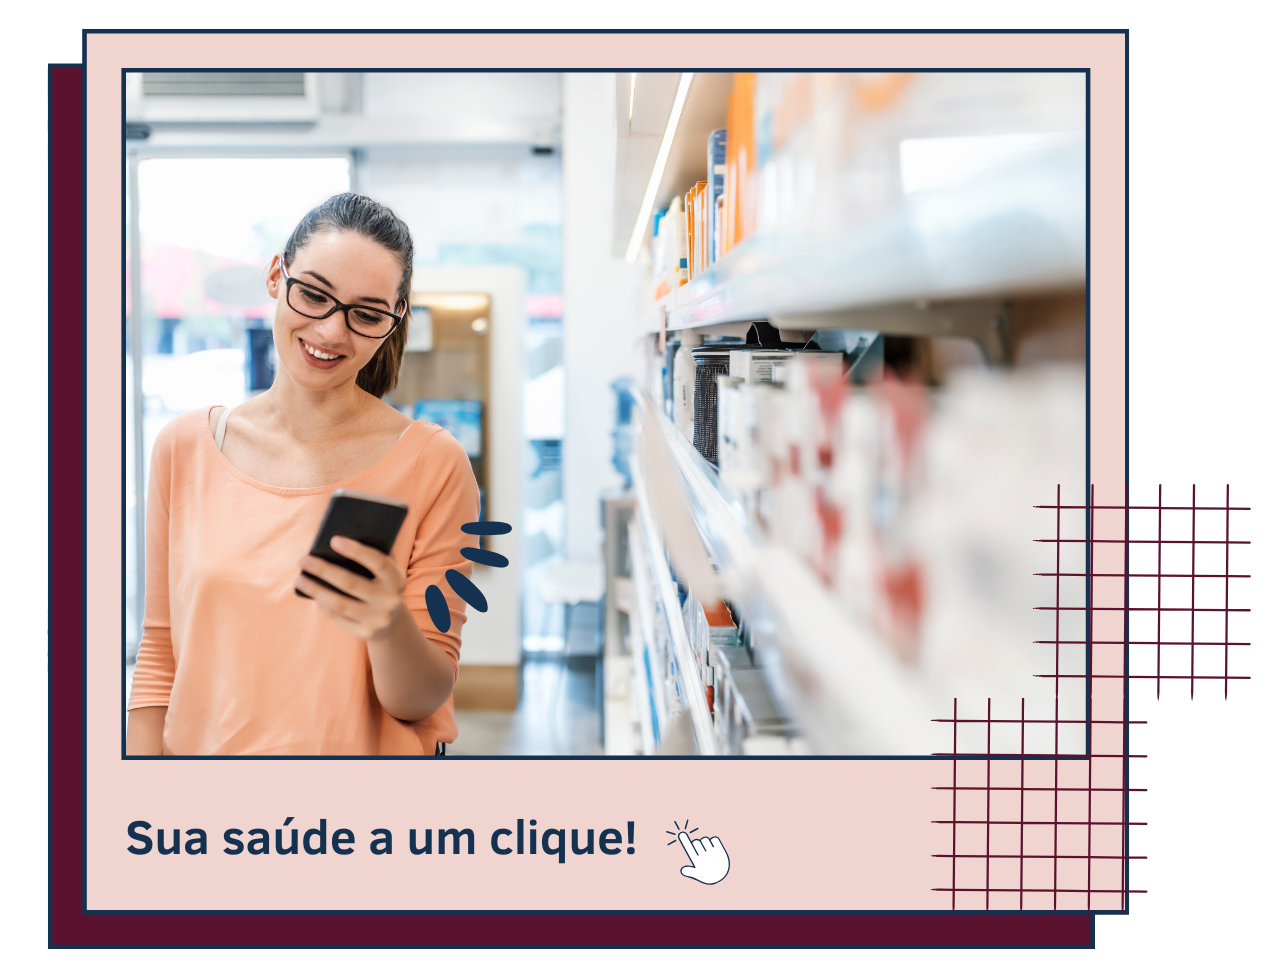
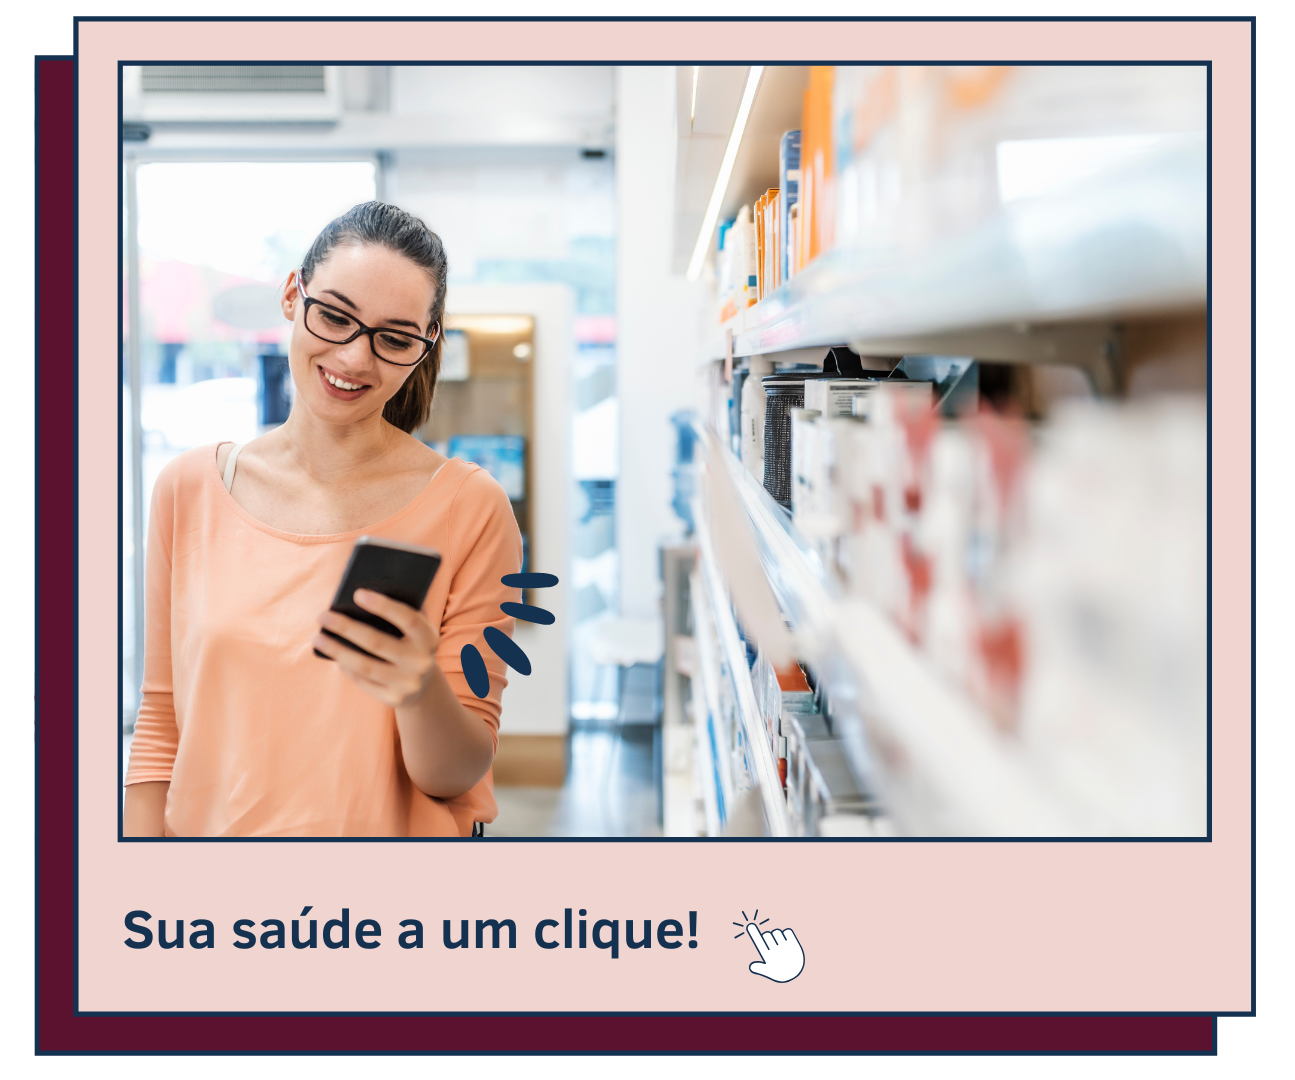
✨ feat: adiciona alert, ToastAlerta e isLoading nos formulários de Categoria

diff --git a/src/components/navbar/Navbar.tsx b/src/components/navbar/Navbar.tsx
@@ -1,30 +1,28 @@
 import { Link, NavLink } from "react-router-dom";
-import logo from "../../assets/logo.png"; //
+import logo from "../../assets/logo.png";
 
 export default function Navbar() {
     return (
         <header className="w-full bg-[#0d2a47] text-[#f1cdc5] shadow-md">
             <div className="container mx-auto px-8">
-                <div className="flex h-30 items-center">
-                    <div className="flex-1">
-                        <Link to="/" className="flex items-center gap-3">
-                            <img
-                                src={logo}
-                                alt="Logo ClickFarma"
-                                className="h-25 object-contain"
-                            />
-                        </Link>
-                    </div>
+                <div className="flex h-32 items-center gap-10">
+                    <Link to="/" className="flex items-center gap-3">
+                        <img
+                            src={logo}
+                            alt="Logo ClickFarma"
+                            className="h-30 object-contain"
+                        />
+                    </Link>
 
-                    <nav className="flex-1 flex">
-                        <ul className="flex flex-1 justify-evenly items-center font-semibold text-lg">
+                    <nav>
+                        <ul className="flex items-center gap-15 font-bold text-lg">
                             <li>
                                 <NavLink
                                     to="/"
                                     end
                                     className={({ isActive }) =>
-                                        `inline-block transform transition-transform duration-200 ease-out hover:scale-110 ${
-                                            isActive ? "text-[#d9b2a9] font-bold" : "text-[#f1cdc5]"
+                                        `inline-block transition-transform duration-200 hover:scale-110 ${
+                                            isActive ? "text-[#d9b2a9]" : "text-[#f1cdc5]"
                                         }`
                                     }
                                 >
@@ -36,8 +34,8 @@ export default function Navbar() {
                                 <NavLink
                                     to="/categorias/novo"
                                     className={({ isActive }) =>
-                                        `inline-block whitespace-nowrap transform transition-transform duration-200 ease-out hover:scale-110 ${
-                                            isActive ? "text-[#d9b2a9] underline" : "text-[#f1cdc5]"
+                                        `inline-block transition-transform duration-200 hover:scale-110 ${
+                                            isActive ? "text-[#d9b2a9]" : "text-[#f1cdc5]"
                                         }`
                                     }
                                 >
@@ -49,8 +47,8 @@ export default function Navbar() {
                                 <NavLink
                                     to="/sobre"
                                     className={({ isActive }) =>
-                                        `inline-block transform transition-transform duration-200 ease-out hover:scale-110 ${
-                                            isActive ? "text-[#d9b2a9] underline" : "text-[#f1cdc5]"
+                                        `inline-block transition-transform duration-200 hover:scale-110 ${
+                                            isActive ? "text-[#d9b2a9]" : "text-[#f1cdc5]"
                                         }`
                                     }
                                 >
@@ -62,8 +60,8 @@ export default function Navbar() {
                                 <NavLink
                                     to="/contato"
                                     className={({ isActive }) =>
-                                        `inline-block transform transition-transform duration-200 ease-out hover:scale-110 ${
-                                            isActive ? "text-[#d9b2a9] underline" : "text-[#f1cdc5]"
+                                        `inline-block transition-transform duration-200 hover:scale-110 ${
+                                            isActive ? "text-[#d9b2a9]" : "text-[#f1cdc5]"
                                         }`
                                     }
                                 >
@@ -72,9 +70,6 @@ export default function Navbar() {
                             </li>
                         </ul>
                     </nav>
-
-
-                    <div className="flex-1 flex justify-end"></div>
                 </div>
             </div>
         </header>

diff --git a/src/components/categoria/FormCategoria.tsx b/src/components/categoria/FormCategoria.tsx
@@ -2,9 +2,11 @@ import { useEffect, useState } from "react";
 import { useNavigate, useParams } from "react-router-dom";
 import {atualizarCategoria, buscarCategoriaPorId, criarCategoria} from "../../services/Services.ts";
 import type Categoria from "../../models/Categoria.ts";
-
+import {ToastAlerta} from "../../utils/ToastAlerta.ts";
+import SyncLoader from "react-spinners/SyncLoader";
 
 export default function FormCategoria() {
+    const [isLoading] = useState(false);
     const [categoria, setCategoria] = useState<Omit<Categoria, "id">>({
         nome: "",
         descricao: ""
@@ -22,25 +24,31 @@ export default function FormCategoria() {
     }, [id]);
 
     function handleChange(
-        e: React.ChangeEvent<HTMLInputElement | HTMLTextAreaElement>
+        event: React.ChangeEvent<HTMLInputElement | HTMLTextAreaElement>
     ) {
-        const { name, value } = e.target;
+        const { name, value } = event.target;
         setCategoria({
             ...categoria,
             [name]: value,
         });
     }
 
-    async function handleSubmit(e: React.FormEvent) {
-        e.preventDefault();
+    async function handleSubmit(event: React.FormEvent) {
+        event.preventDefault();
 
-        if (id) {
-            await atualizarCategoria(Number(id), { id: Number(id), ...categoria });
-        } else {
-            await criarCategoria(categoria);
+        try {
+            if (id) {
+                await atualizarCategoria(Number(id), { id: Number(id), ...categoria });
+                ToastAlerta("Categoria atualizada com sucesso!", "sucesso");
+            } else {
+                await criarCategoria(categoria);
+                ToastAlerta("Categoria cadastrada com sucesso!", "sucesso");
+            }
+
+            navigate("/categorias");
+        } catch (error) {
+            ToastAlerta("Erro ao salvar categoria.", "erro");
         }
-
-        navigate("/categorias");
     }
 
     return (
@@ -70,9 +78,23 @@ export default function FormCategoria() {
                     />
                     <button
                         type="submit"
-                        className="w-full px-4 py-3 bg-[#5a122e] text-white rounded-lg font-semibold hover:bg-[#7a1a40] transition-colors"
+                        disabled={isLoading}
+                        className={`w-full px-4 py-3 rounded-lg font-semibold transition-colors ${
+                            isLoading
+                                ? "bg-gray-400 text-white cursor-not-allowed"
+                                : "bg-[#5a122e] text-white hover:bg-[#7a1a40]"
+                        }`}
                     >
-                        Salvar
+                        {isLoading ? (
+                            <div className="flex justify-center">
+                                <SyncLoader color="#f1cdc5" size={10} />
+                            </div>
+                        ) : id ? (
+                            "Atualizar"
+                        ) : (
+                            "Cadastrar"
+                        )}
+
                     </button>
                 </form>
             </div>

diff --git a/src/components/categoria/DeletarCategoria.tsx b/src/components/categoria/DeletarCategoria.tsx
@@ -1,12 +1,12 @@
 import { useEffect, useState } from "react";
 import { useNavigate, useParams } from "react-router-dom";
 import type Categoria from "../../models/Categoria.ts";
-import {buscarCategoriaPorId, deletarCategoria} from "../../services/Services.ts";
+import { buscarCategoriaPorId, deletarCategoria } from "../../services/Services.ts";
+import { ToastAlerta } from "../../utils/ToastAlerta.ts";
 
-
-
-export default function DeleteCategoria() {
+export default function DeletarCategoria() {
     const [categoria, setCategoria] = useState<Categoria>();
+    const [isLoading, setIsLoading] = useState(false);
     const { id } = useParams();
     const navigate = useNavigate();
 
@@ -17,9 +17,20 @@ export default function DeleteCategoria() {
     }, [id]);
 
     async function handleDelete() {
-        if (id) {
-            await deletarCategoria(Number(id));
-            navigate("/categorias");
+        try {
+            if (id) {
+                setIsLoading(true);
+                await deletarCategoria(Number(id));
+                ToastAlerta("Categoria apagada com sucesso!", "sucesso");
+
+                setTimeout(() => {
+                    setIsLoading(false);
+                    navigate("/categorias");
+                }, 1500);
+            }
+        } catch (error) {
+            ToastAlerta("Erro ao deletar a categoria.", "erro");
+            setIsLoading(false);
         }
     }
 
@@ -37,13 +48,19 @@ export default function DeleteCategoria() {
                     <div className="flex gap-4 mt-6">
                         <button
                             onClick={handleDelete}
-                            className="px-5 py-2 bg-[#5a122e] text-white rounded-lg hover:bg-red-500 transition"
+                            disabled={isLoading}
+                            className={`px-5 py-2 rounded-lg text-white transition ${
+                                isLoading
+                                    ? "bg-gray-400 cursor-not-allowed"
+                                    : "bg-[#5a122e] hover:bg-red-500"
+                            }`}
                         >
-                            Confirmar
+                            {isLoading ? "Excluindo..." : "Confirmar"}
                         </button>
 
                         <button
                             onClick={() => navigate("/categorias")}
+                            disabled={isLoading}
                             className="px-5 py-2 bg-[#0d2a47] text-white rounded-lg hover:bg-[#12365f] transition"
                         >
                             Cancelar

diff --git a/src/components/categoria/ListaCategorias.tsx b/src/components/categoria/ListaCategorias.tsx
@@ -30,13 +30,13 @@ export default function ListaCategorias() {
             <div className="container mx-auto px-4">
                 <h2 className="text-2xl font-bold text-[#0d2a47] mb-8">Categorias</h2>
 
-                <div className="flex gap-2 mb-6">
+                <div className="flex gap-1 mb-2">
                     <input
                         type="text"
                         placeholder="Buscar categoria por nome..."
                         value={busca}
-                        onChange={(e) => setBusca(e.target.value)}
-                        className="border p-2 rounded w-full"
+                        onChange={(event) => setBusca(event.target.value)}
+                        className="border p-1 rounded w-xs flex-grow"
                     />
                     <button
                         onClick={() => carregarCategorias(busca)}

diff --git a/src/utils/ToastAlerta.ts b/src/utils/ToastAlerta.ts
@@ -1,0 +1,28 @@
+import {toast, type ToastOptions,} from "react-toastify";
+import 'react-toastify/dist/ReactToastify.css';
+
+export function ToastAlerta(mensagem: string, tipo: "sucesso" | "erro" | "info") {
+    const options: ToastOptions = {
+        position: "top-right",
+        autoClose: 2000,
+        hideProgressBar: false,
+        closeOnClick: true,
+        pauseOnHover: false,
+        draggable: false,
+        theme: "colored",
+        progress: undefined,
+    };
+
+    switch (tipo) {
+        case "sucesso":
+            toast.success(mensagem, options);
+            break;
+        case "erro":
+            toast.error(mensagem, options);
+            break;
+        case "info":
+        default:
+            toast.info(mensagem, options);
+            break;
+    }
+}

diff --git a/src/pages/Contato.tsx b/src/pages/Contato.tsx
@@ -62,7 +62,7 @@ export default function Contato() {
                         <div>
                             <h2 className="font-bold text-lg">Telefone</h2>
                             <p className="text-gray-600">
-                                <a href="tel:+551140028922" className="hover:underline">
+                                <a href="tel:+551140028922" className="hover:underline" title="PS2">
                                     (11) 4002-8922
                                 </a>
                             </p>

diff --git a/src/App.tsx b/src/App.tsx
@@ -7,10 +7,12 @@ import DeleteCategoria from "./components/categoria/DeletarCategoria.tsx";
 import ListaCategorias from "./components/categoria/ListaCategorias.tsx";
 import Sobre from "./pages/Sobre.tsx";
 import Contato from "./pages/Contato.tsx";
+import {ToastContainer} from "react-toastify";
 
 export default function App() {
     return (
         <div className="min-h-screen flex flex-col">
+            <ToastContainer />
             <Navbar />
             <main className="flex-1 gap-1">
                 <Routes>

diff --git a/src/pages/Home.tsx b/src/pages/Home.tsx
@@ -41,7 +41,7 @@ function Home() {
                         <img
                             src={minhaImagem}
                             alt="Imagem Página Home ClickFarma"
-                            className="w-full max-w-[800px] h-auto object-cover rounded-lg shadow-lg"
+                            className="w-full max-w-[1000px] h-auto object-cover rounded-lg shadow-lg"
                         />
                     </div>
                 </div>
